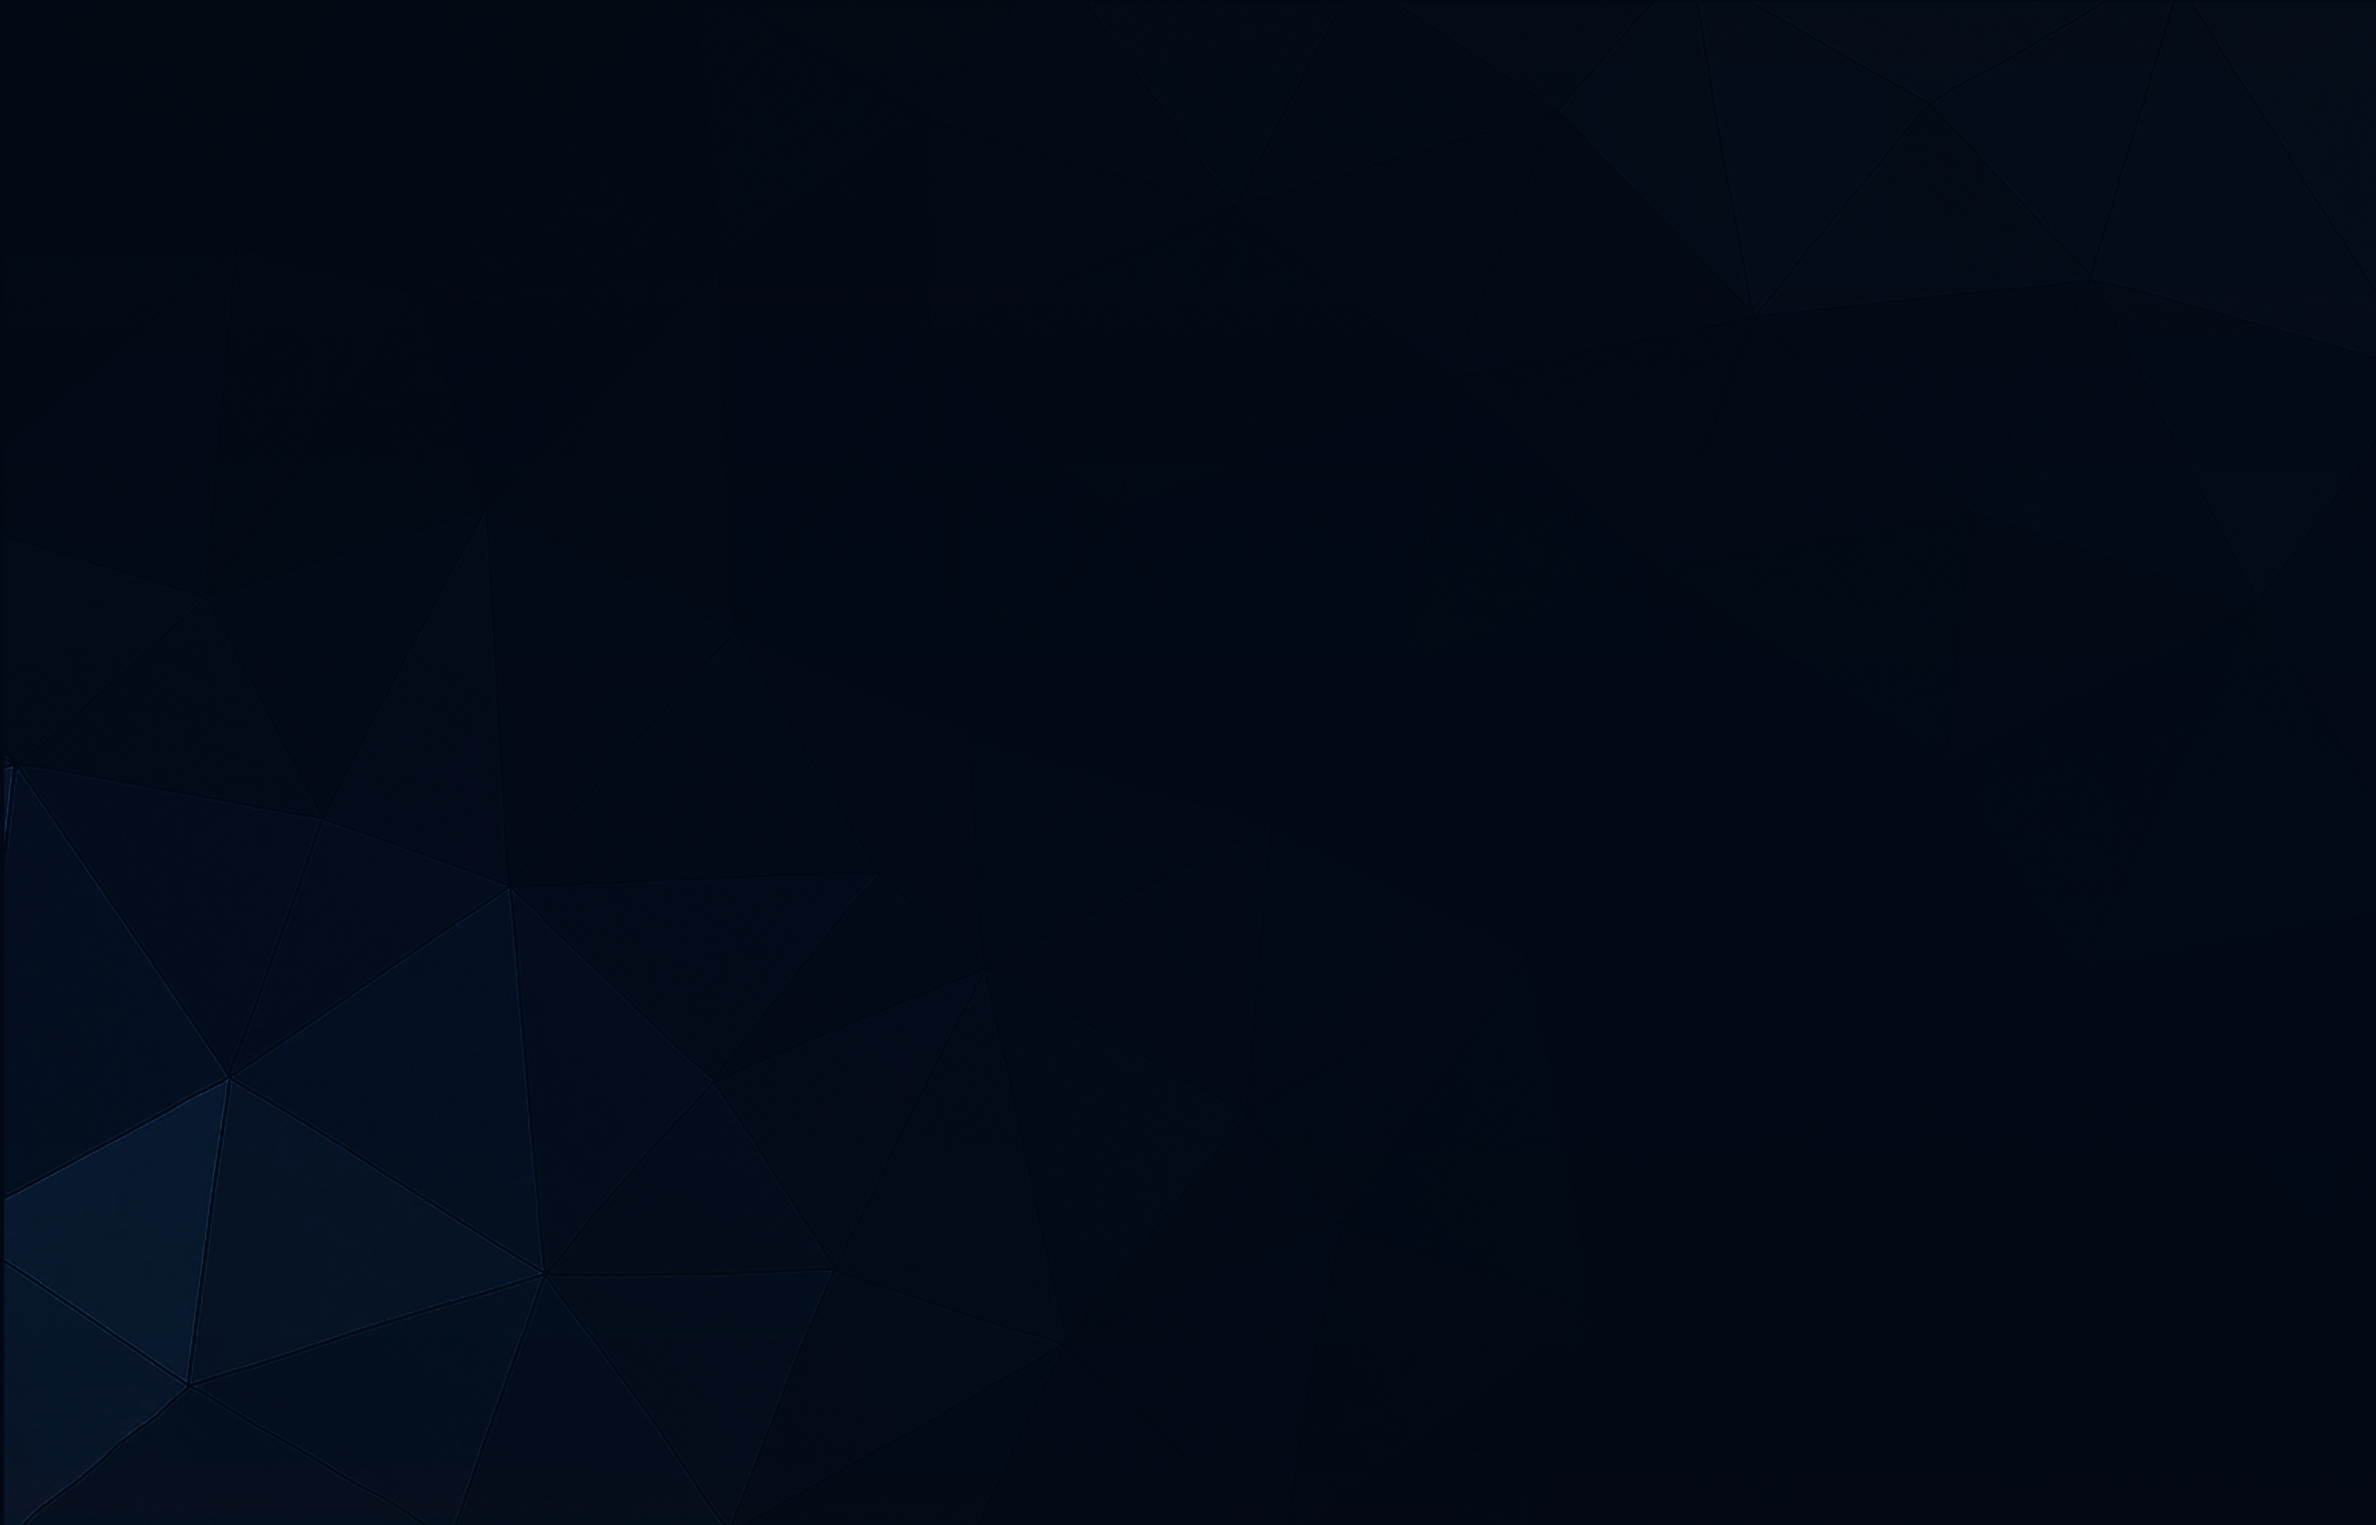
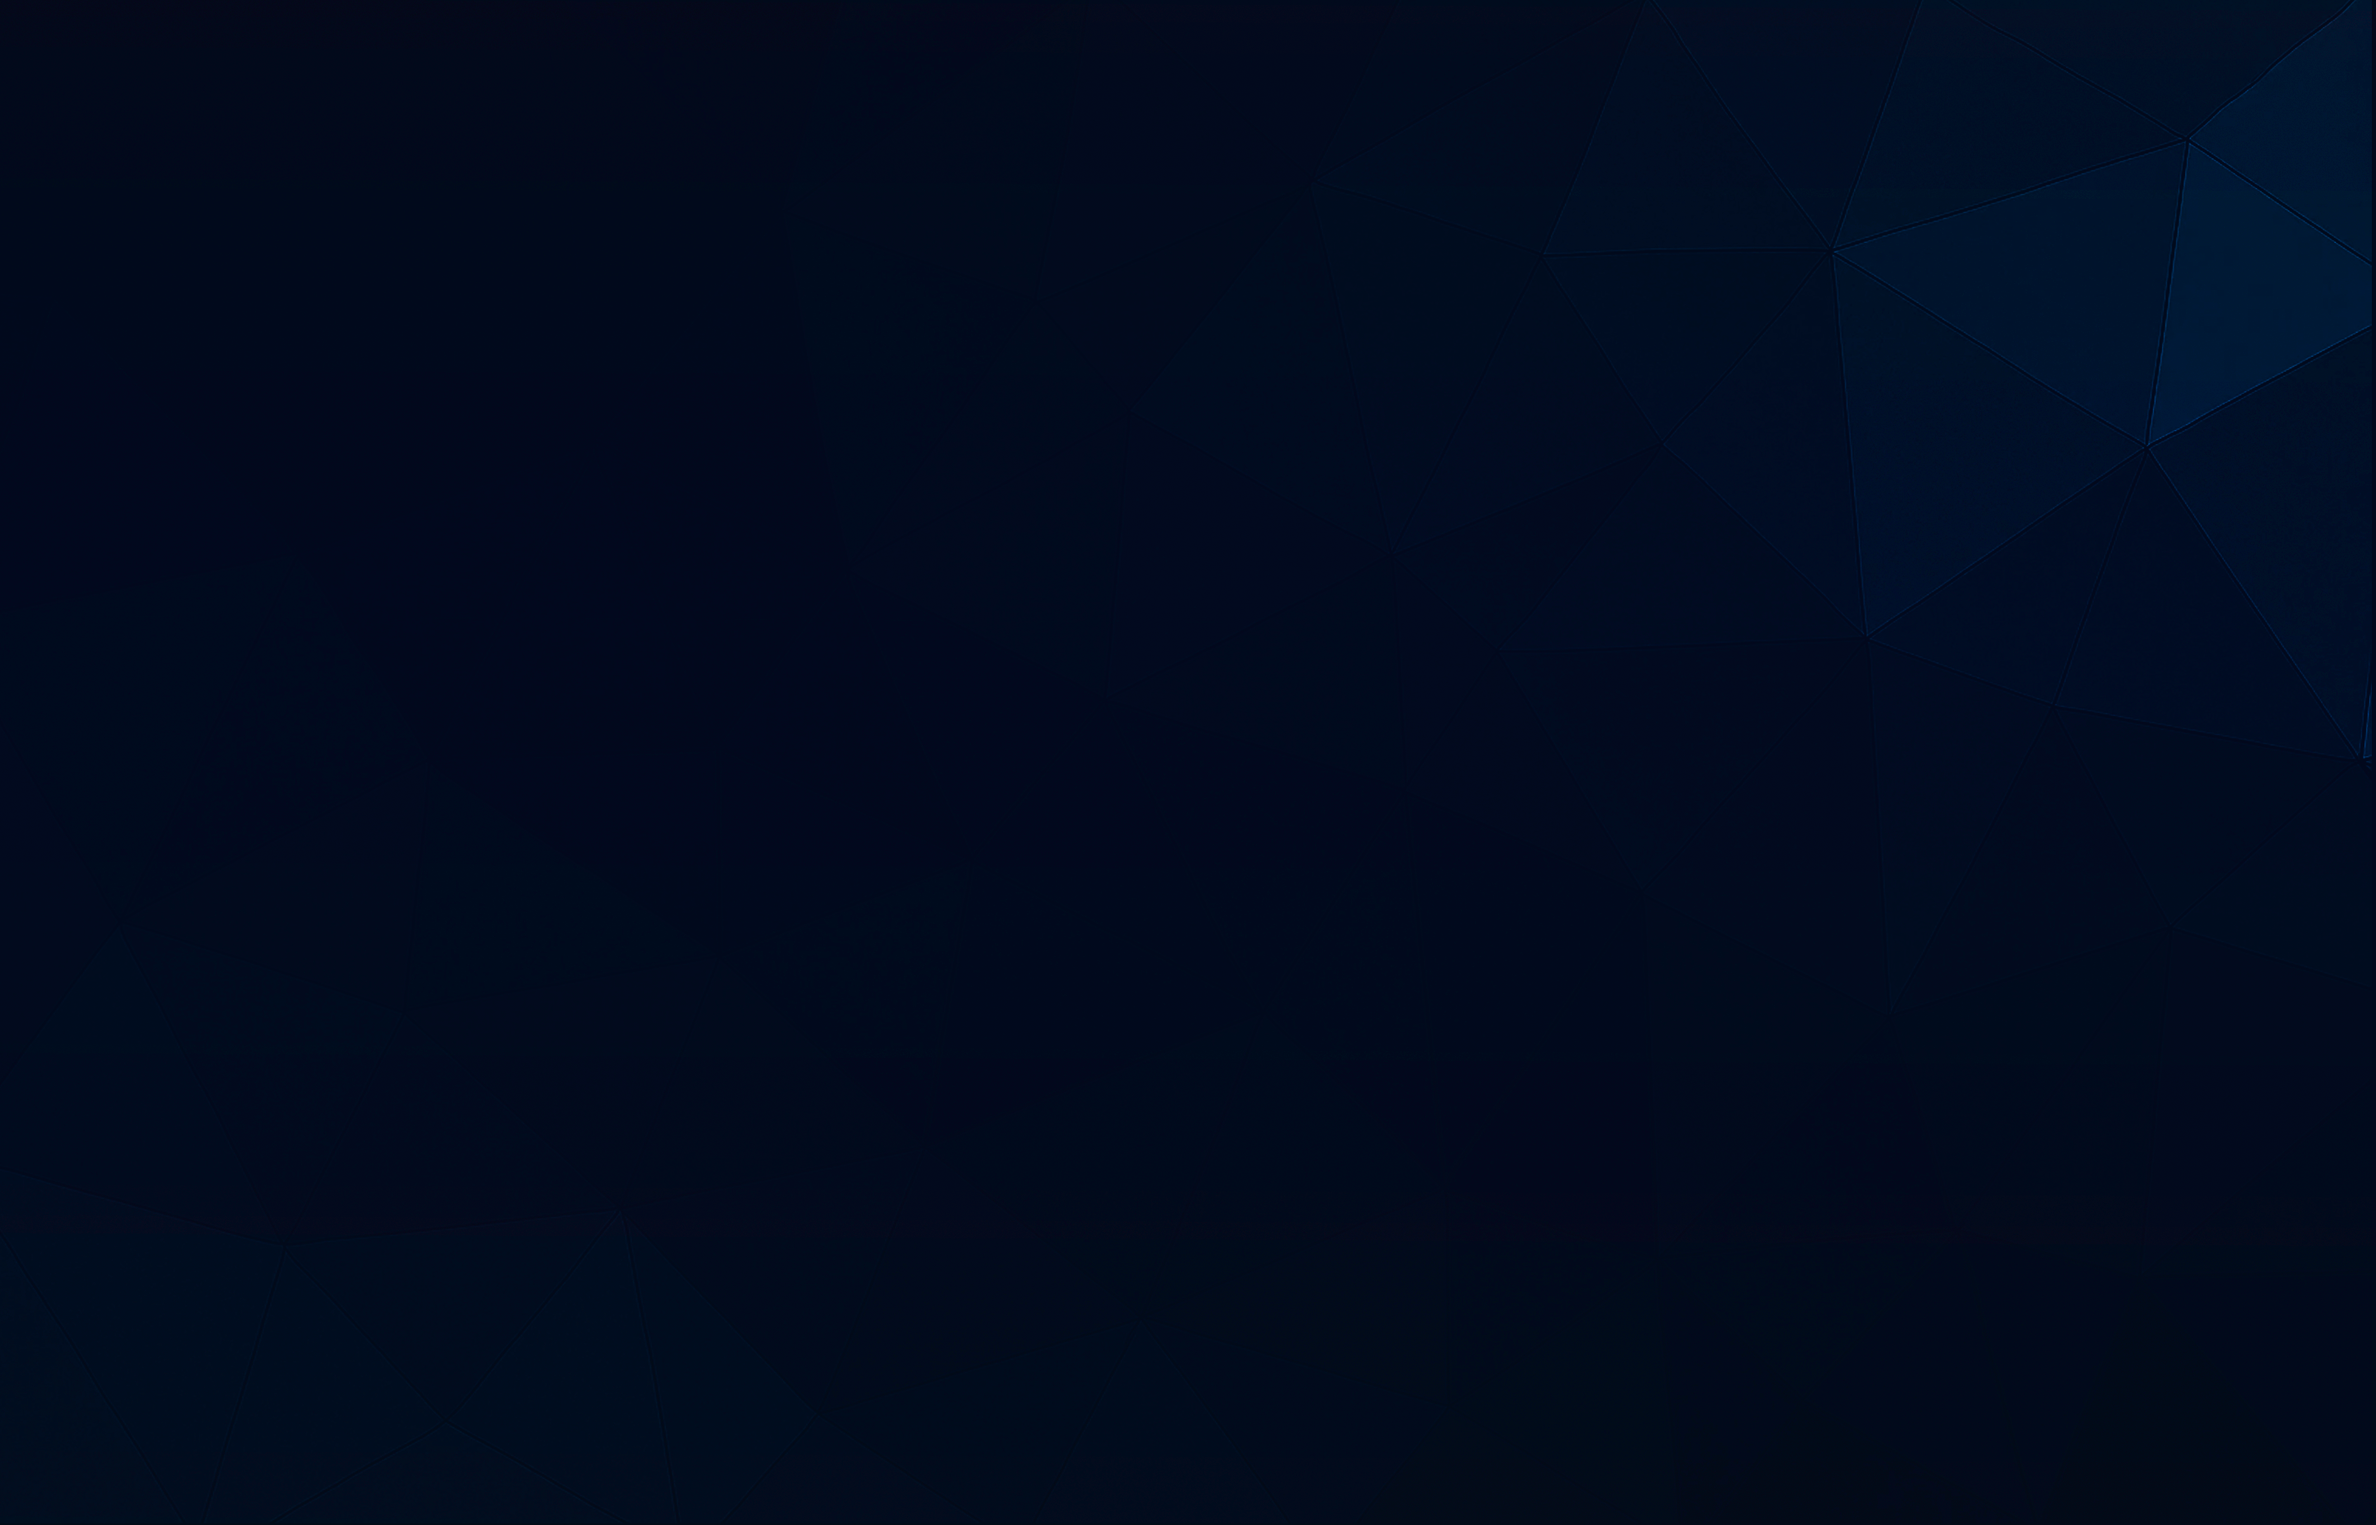
home page final update

Changed region(s): [[0.8352, 0.0617, 1.0, 0.3086], [0.9899, 0.4629, 1.0, 0.4938]]

diff --git a/frontend-vite/src/components/Footer/styled.jsx b/frontend-vite/src/components/Footer/styled.jsx
@@ -1,13 +1,14 @@
 import styled from "styled-components";
 import * as colors from "../../config/colors";
-import bgImg from "../../assets/imgs/bgCarousel2.png";
+import bgImg from "../../assets/imgs/bgFooter.png";
 
 export const StyledFooter = styled.div`
-  display: grid;
-  grid-template-columns: 1fr 1fr 1fr;
+  display: flex;
+  align-items: center;
+  justify-content: center;
+
   width: 100%;
   height: 300px;
-  text-align: center;
 
   mask: linear-gradient(90deg, transparent, white 10%, white 90%, transparent);
   -webkit-mask: linear-gradient(
@@ -25,5 +26,28 @@ export const StyledFooter = styled.div`
     inset: 0;
     position: absolute;
     background: url(${bgImg}) no-repeat center/cover;
+  }
+
+  .footerContainer {
+    display: grid;
+    grid-template-columns: 1fr;
+    grid-template-rows: 1fr;
+  }
+
+  .text-container {
+    font-size: 20px;
+    z-index: 20;
+  }
+
+  .icon-container {
+    display: flex;
+    justify-content: center;
+    font-size: 35px;
+    gap: 15px;
+    z-index: 20;
+  }
+
+  .icon-contaienr i {
+    cursor: pointer;
   }
 `;

diff --git a/frontend-vite/src/components/Hero/styled.jsx b/frontend-vite/src/components/Hero/styled.jsx
@@ -28,25 +28,19 @@ export const HeroStyle = styled.section`
       ${colors.menuLightColor},
       ${colors.primaryGlow} 40%,
       ${colors.primaryBorder} 70%,
-      ${colors.secundaryLightColor}
+      ${colors.primaryLightColor}
     );
 
-    /* important: define tamanho do background maior que o elemento para poder animar */
     background-size: 300% 300%;
-    background-repeat: no-repeat;
-    background-position: 0% 50%;
 
-    /* clipping para texto (browser prefixed for compatibility) */
     -webkit-background-clip: text;
     background-clip: text;
-    -webkit-text-fill-color: transparent; /* Blink/WebKit */
-    color: transparent; /* fallback */
+    -webkit-text-fill-color: transparent;
 
     /* animação */
-    animation: spin 8s ease-in-out infinite;
+    animation: spin 12s ease-in-out infinite;
   }
 
-  /* animação simples de movimento do gradiente */
   @keyframes spin {
     0% {
       background-position: 0% 50%;

diff --git a/frontend-vite/src/components/Footer/index.jsx b/frontend-vite/src/components/Footer/index.jsx
@@ -3,7 +3,13 @@ import { StyledFooter } from "./styled";
 export default function Footer() {
   return (
     <StyledFooter>
-      <div></div>
+      <div className="footerContainer">
+        <div className="text-container">© 2025 Henrique Tamashiro</div>
+        <div className="icon-container">
+          <i class="bi bi-github"></i>
+          <i class="bi bi-linkedin"></i>
+        </div>
+      </div>
     </StyledFooter>
   );
 }

diff --git a/frontend-vite/src/components/Carousel/styled.jsx b/frontend-vite/src/components/Carousel/styled.jsx
@@ -29,7 +29,6 @@ export const CarouselStyle = styled.section`
     inset: 0;
     background: url(${imgBg}) center/cover no-repeat;
     opacity: 0.9;
-    filter: brightness(1px) blur(1px);
     z-index: -1;
     min-height: 1200px;
     min-width: 60px;
